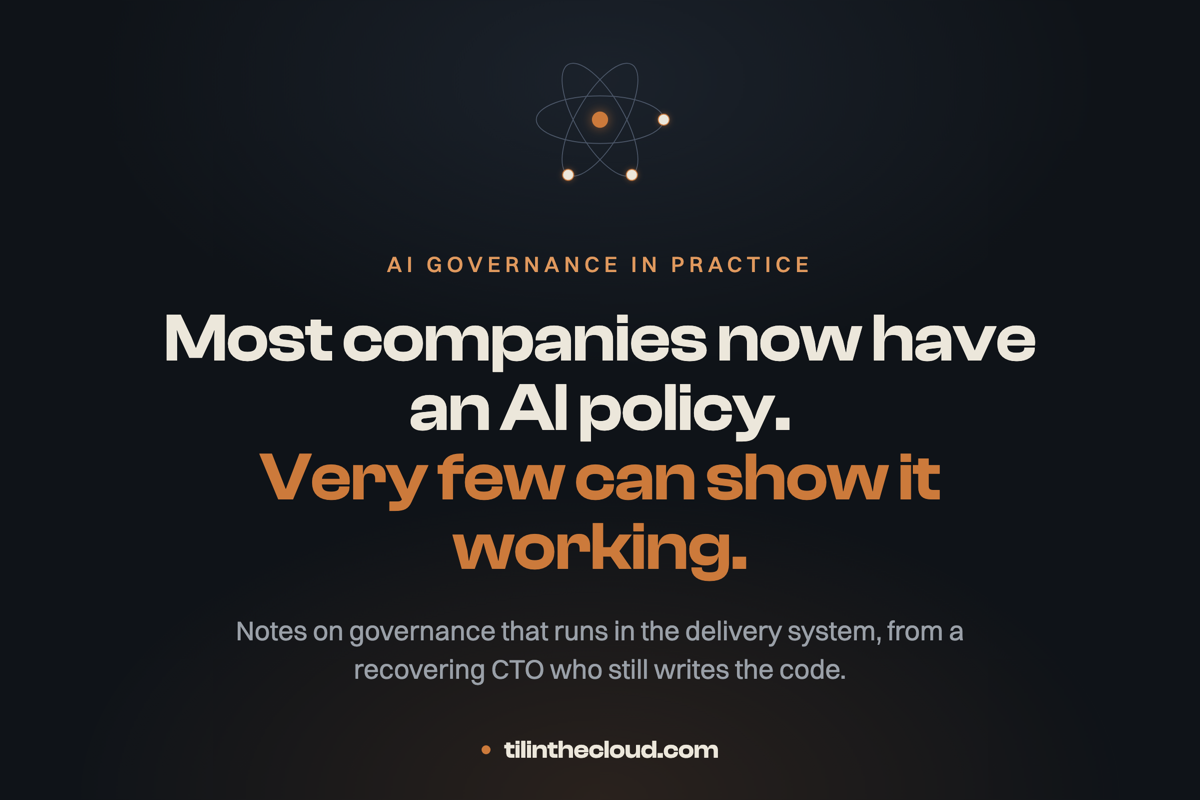
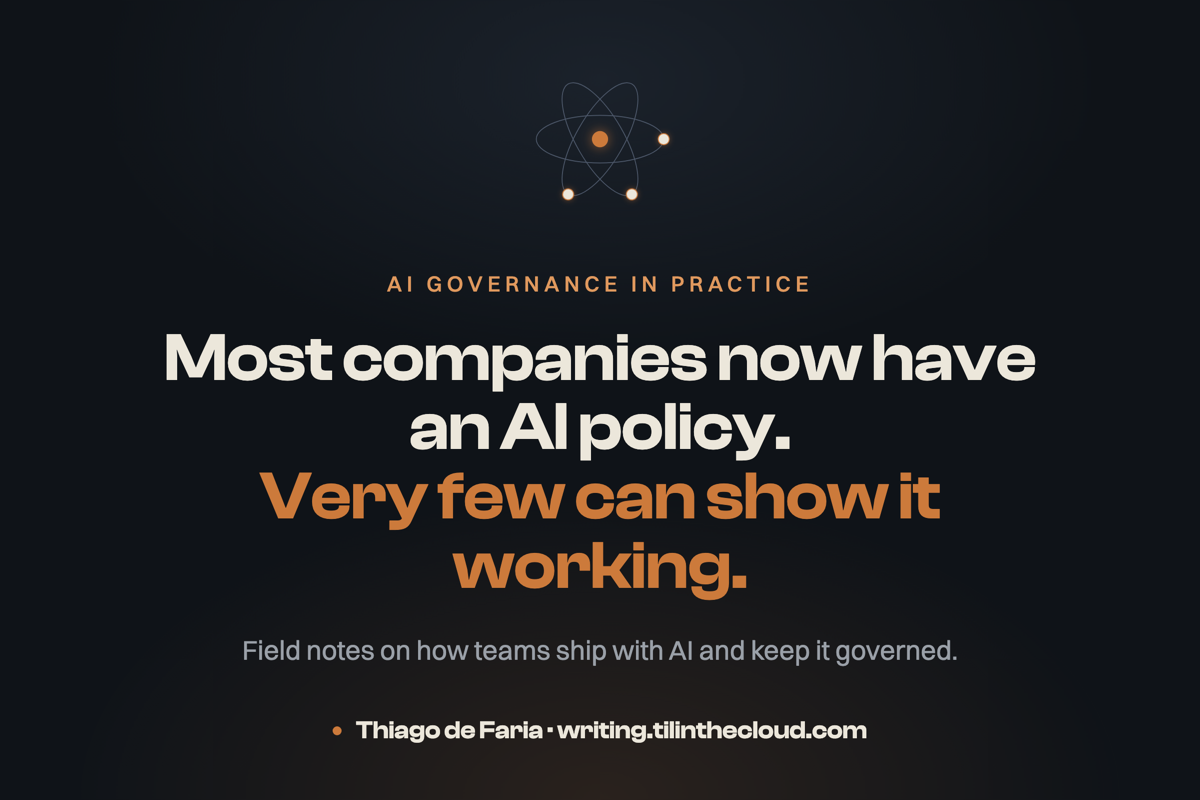
feat(brand): rename newsletter to Thiago de Faria
Writing card, CLAUDE.md mirror and Substack cover (re-rendered) drop
The Recovering CTO and the persona. Subdomain and DNS unchanged.

diff --git a/index.html b/index.html
@@ -190,11 +190,11 @@
       <div class="wrap">
         <div class="band-head inview">
           <p class="eyebrow">Writing</p>
-          <h2 id="writing-title">The Recovering CTO</h2>
+          <h2 id="writing-title">Thiago de Faria</h2>
         </div>
         <a class="writing-card inview" href="https://writing.tilinthecloud.com" rel="me">
           <div>
-            <div class="wtitle">Notes from inside the program</div>
+            <div class="wtitle">Field notes on how teams ship with AI and keep it governed</div>
             <p class="wsub">How AI governance actually runs inside delivery, and why architecture, teams and agents have to move together. From someone still writing the code.</p>
           </div>
           <span class="btn btn-ghost" aria-hidden="true">Read on Substack <span class="arrow">→</span></span>

diff --git a/assets/brand/social/src/substack-cover.html b/assets/brand/social/src/substack-cover.html
@@ -34,6 +34,6 @@
     <circle class="core" cx="200" cy="200" r="19"/></svg></div>
   <div class="eyebrow">AI governance in practice</div>
   <h1>Most companies now have an AI policy.<br><span class="cop">Very few can show it working.</span></h1>
-  <p class="sub">Notes on governance that runs in the delivery system, from a recovering CTO who still writes the code.</p>
-  <div class="foot"><span class="dot"></span>tilinthecloud.com</div>
+  <p class="sub">Field notes on how teams ship with AI and keep it governed.</p>
+  <div class="foot"><span class="dot"></span>Thiago de Faria &middot; writing.tilinthecloud.com</div>
 </body></html>

diff --git a/CLAUDE.md b/CLAUDE.md
@@ -12,7 +12,7 @@ v1 is a **single static one-pager**. It has exactly three jobs:
 2. **State the offer**: what Thiago does, in his voice.
 3. **Give a way to book**: a call link and `info@tilinthecloud.com`.
 
-It is a **front door and conversion surface, NOT a content channel**. The writing lives on Substack ("The Recovering CTO"). Do not turn this into a blog.
+It is a **front door and conversion surface, NOT a content channel**. The writing lives on Substack ("Thiago de Faria", at writing.tilinthecloud.com). Do not turn this into a blog.
 
 It **replaces a redirect** that currently sends tilinthecloud.com → Thiago's personal LinkedIn (a credibility leak for cold buyers).
 
@@ -30,7 +30,7 @@ It **replaces a redirect** that currently sends tilinthecloud.com → Thiago's p
 
 ## Positioning (the thesis)
 
-The lead is **AI governance in practice: governance that runs in the delivery system, not policy on paper.** Thiago decides with the customer who owns which rules, builds the guardrails into the pipeline, and leaves evidence that both auditors and engineers trust. Engineering-side, never compliance or legal advice. The method underneath is **"The Three-Body Program"**: three bodies (architecture, teams, AI capability) moving together, which is why governance fails when only one of them moves. Persona: **a recovering CTO who still writes the code.** See ADR 0021.
+The lead is **AI governance in practice: governance that runs in the delivery system, not policy on paper.** Thiago decides with the customer who owns which rules, builds the guardrails into the pipeline, and leaves evidence that both auditors and engineers trust. Engineering-side, never compliance or legal advice. The method underneath is **"The Three-Body Program"**: three bodies (architecture, teams, AI capability) moving together, which is why governance fails when only one of them moves. Persona: **Thiago himself, a hands-on data and AI architect who still writes the code.** See ADR 0021 and ADR 0022.
 
 ## Voice constraints (HARD RULES)
 
@@ -66,7 +66,7 @@ The lead is **AI governance in practice: governance that runs in the delivery sy
 1. **Hero**: the AI-governance lead (from the 30s pitch) + one-line positioning + two buttons (Talk to me / Read the writing).
 2. **What I do**: the three-bodies method (governance fails when only one body moves), who it is for, the "hands-on, on the hook for the outcome" promise.
 3. **Proof strip**: named past engagements under "Where I've done the work" (employment + consulting + advisory; see the allowed list above and ADR 0017).
-4. **Writing**: link out to Substack ("The Recovering CTO", at `writing.tilinthecloud.com` once live).
+4. **Writing**: link out to Substack ("Thiago de Faria", at `writing.tilinthecloud.com`).
 5. **Contact**: a book-a-call link + `info@tilinthecloud.com` (wire the contact form to that address).
 
 ## Landing copy (Thiago's voice: refine wording, keep the meaning)
@@ -89,7 +89,7 @@ The lead is **AI governance in practice: governance that runs in the delivery sy
 - **DNS** (configured at the registrar, not in this repo):
   - Four `A` records for the apex → GitHub Pages IPs: `185.199.108.153`, `185.199.109.153`, `185.199.110.153`, `185.199.111.153`.
   - One `www` `CNAME` → the GitHub Pages host.
-  - One `writing` `CNAME` → Substack (`target.substack-custom-domains.com`) for the newsletter ("The Recovering CTO"). See ADR 0016.
+  - One `writing` `CNAME` → Substack (`target.substack-custom-domains.com`) for the newsletter ("Thiago de Faria"). See ADR 0016.
 - **The apex stays on GitHub Pages. NEVER point `tilinthecloud.com` at Substack, and never enable Substack's "root domain redirect" (it would hijack the front-page site, the exact failure this project undoes).**
 - **Email MX is independent. DO NOT TOUCH email DNS.**
 
